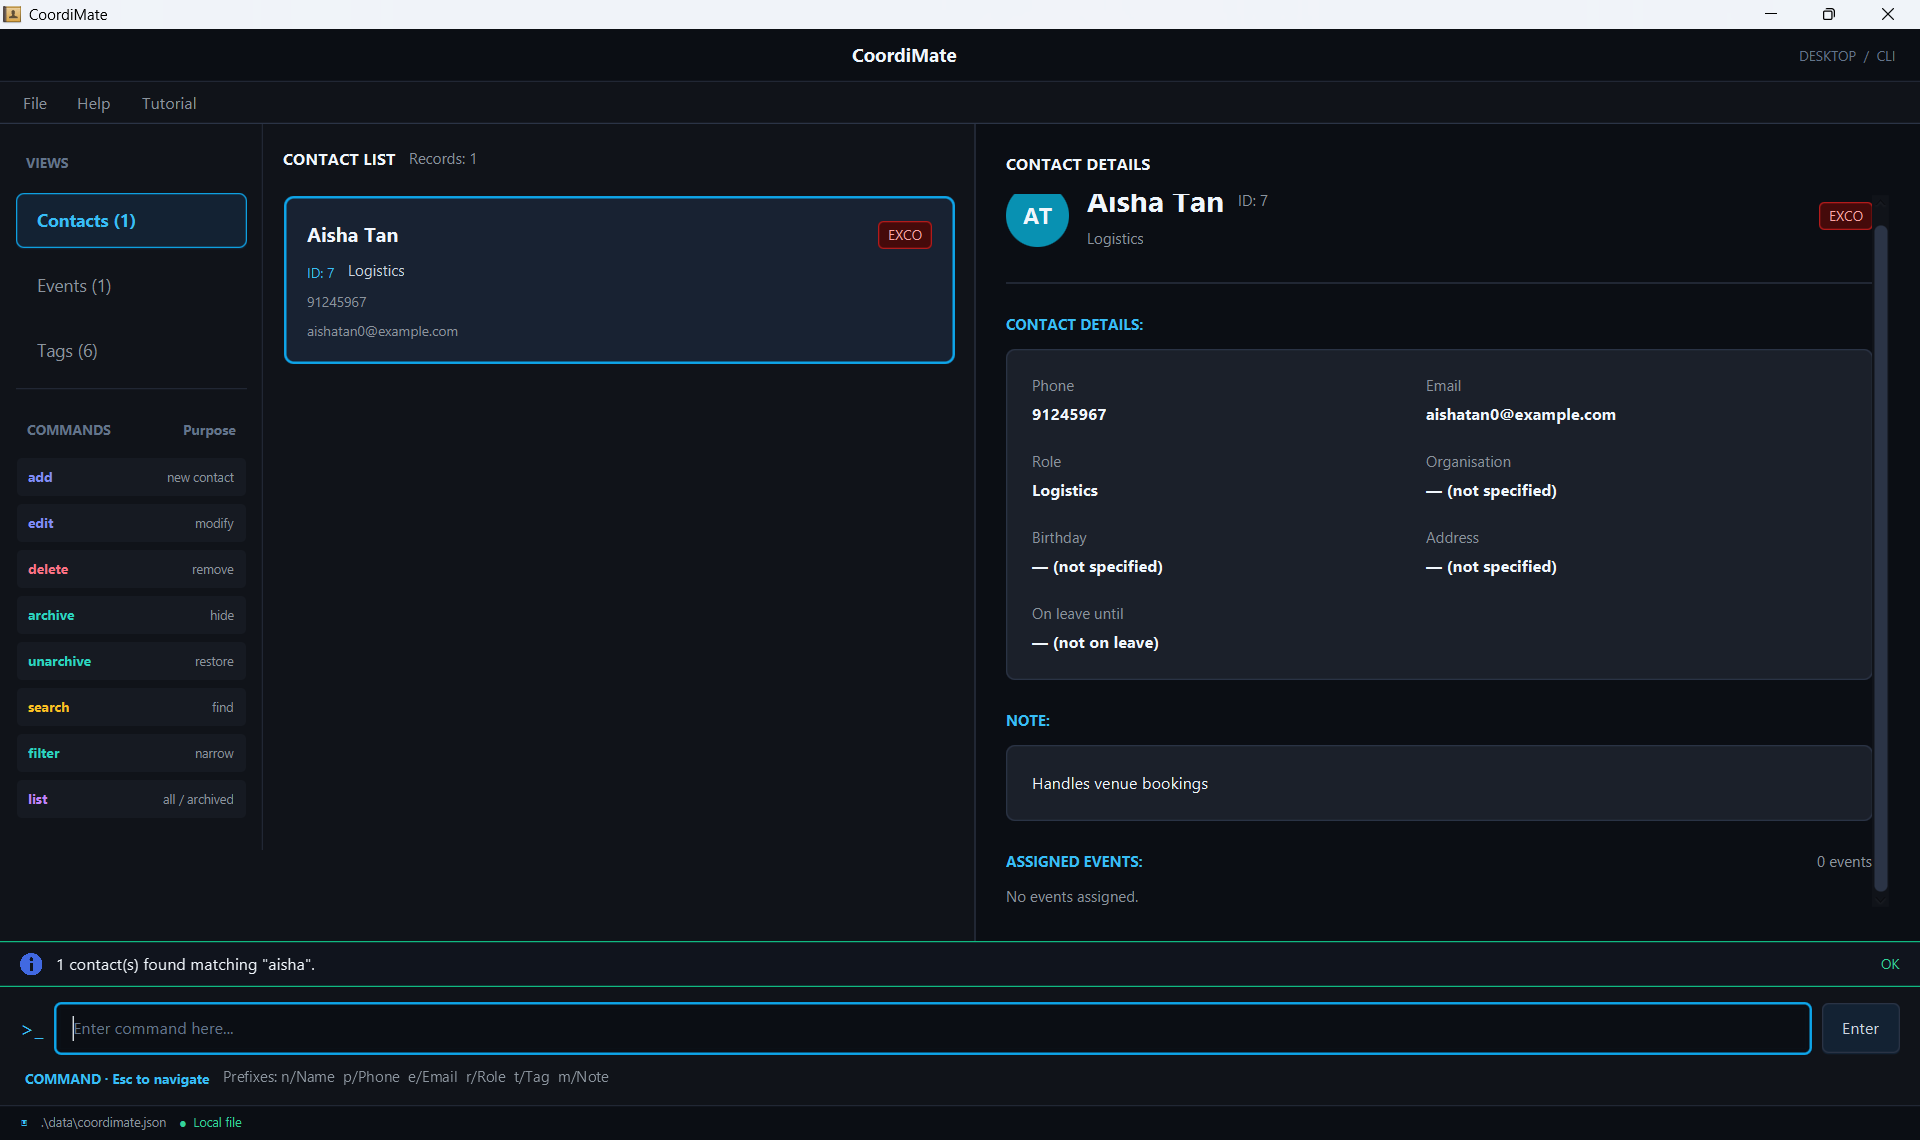
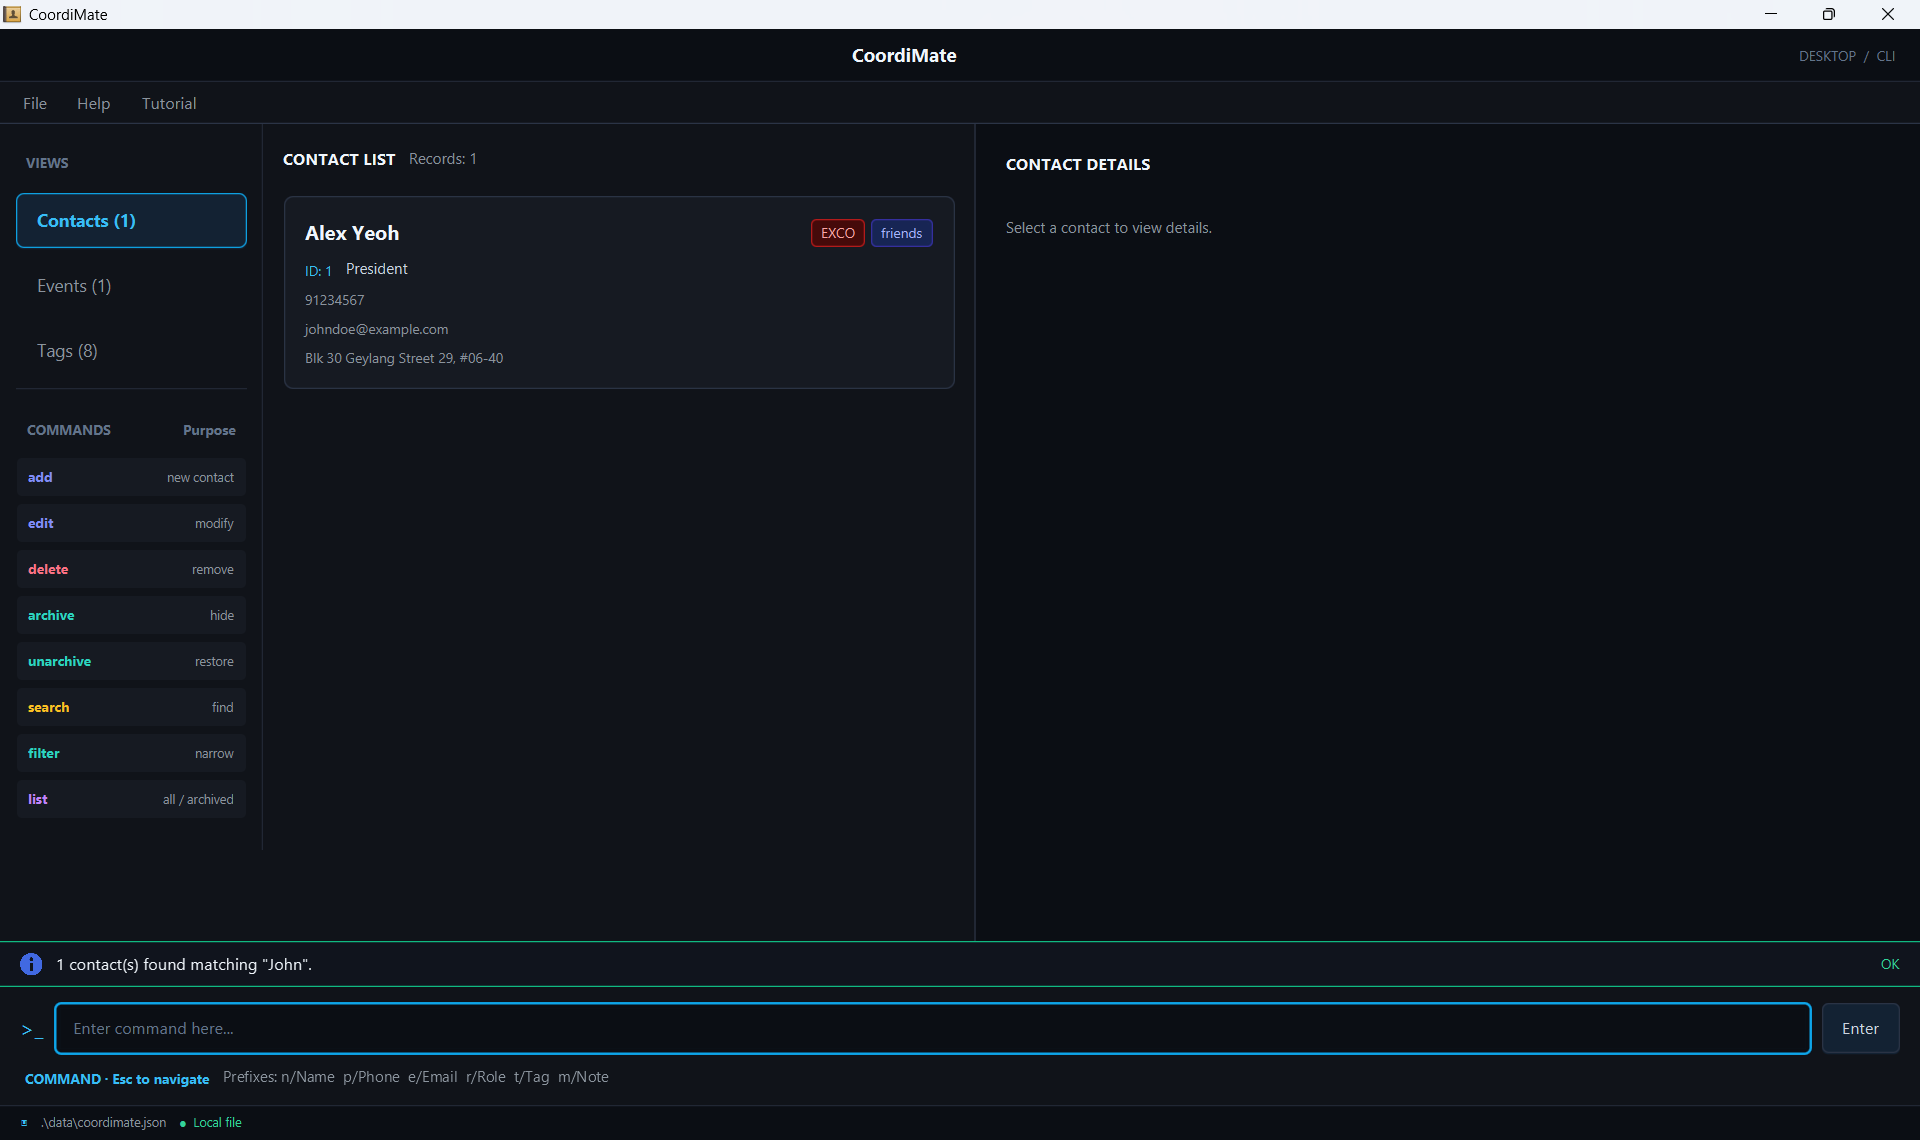
Merge tag commands, fix email limit gap

diff --git a/docs/UserGuide.md b/docs/UserGuide.md
@@ -143,7 +143,7 @@ A command that breaks a constraint is rejected and makes no changes.
 |---|---|---|
 | `NAME`, `MEMBER_NAME` | `n/`, `mem/` | 1 to 80 characters. Letters, spaces, hyphens (`-`), apostrophes (`'`), and periods (`.`) only, with at least one letter. The words `s/o` and `d/o` (any capitalization) are also allowed, e.g. `Rajesh s/o Kumar`. Digits are not allowed. Several spaces in a row count as one. Contact names are unique, ignoring case and extra spaces. |
 | `PHONE` | `p/` | 7 to 15 digits. May start with `+` or a bracketed country code such as `(+65)`, and may contain spaces, hyphens, and brackets. Brackets must come in pairs that each enclose at least one digit, and cannot be nested. Unique among contacts once spaces, hyphens, and brackets are removed. |
-| `EMAIL` | `e/` | `local-part@domain`. The local part uses letters, digits, and `_`, `%`, `+`, `-`, `.`; it cannot start or end with a period or contain two periods in a row. The domain is made of labels separated by periods; each label uses letters, digits, and hyphens and cannot start or end with a hyphen. The last label has at least 2 letters. Unique among contacts, ignoring case. |
+| `EMAIL` | `e/` | `local-part@domain`, at most 254 characters, with a local part of at most 64 characters. The local part uses letters, digits, and `_`, `%`, `+`, `-`, `.`; it cannot start or end with a period or contain two periods in a row. The domain is made of labels separated by periods; each label uses letters, digits, and hyphens and cannot start or end with a hyphen. The last label has at least 2 letters. Unique among contacts, ignoring case. |
 | `ROLE` | `r/` | 1 to 50 characters. Letters, digits, spaces, hyphens, and `/` only, with at least one letter or digit. |
 | `BIRTHDAY` | `b/` | A real date in `dd-MM-yyyy` format that is not in the future, e.g. `18-06-2004`. |
 | `LEAVE_END_DATE` | `lv/` | A real date in `dd-MM-yyyy` format that is not in the past, e.g. `30-11-2026`. Today's date is allowed. |
@@ -468,10 +468,7 @@ Examples:
 * `edit target/aisha@example.com lv/15-12-2026` changes Aisha's leave to end on 15 December 2026.
 * `edit 2 lv/` ends the leave of the contact with member ID `2`.
 
-| Condition | Error message |
-|---|---|
-| The date is invalid, incorrectly formatted, or in the past. | `Invalid leave end date. Use a real date in dd-MM-yyyy format that is not in the past. Example: lv/30-11-2026` |
-| `lv/` is repeated. | `Parameter lv/ may only be specified once.` |
+An invalid or repeated `lv/` is rejected with the same error messages as [`edit`](#editing-a-contact-edit).
 
 ### Deleting a contact: `delete`
 
@@ -1137,13 +1134,22 @@ restarting. This is the same behavior as the **Dismiss** button.
 
 ## Managing tags
 
-### Adding a tag: `addtag`
+### Managing tags: `addtag`, `edittag`, `deletetag`
 
-Creates a custom tag and opens the Tags view. Tag names must contain 1 to 30 alphanumeric characters without spaces.
-Leading and trailing whitespace is trimmed. Tag names preserve their capitalization, but are unique regardless of
-capitalization.
+`addtag` creates a custom tag. `edittag` renames an existing tag, including a default tag, and updates it wherever
+it is applied across contacts. `deletetag` deletes an existing tag, including a default tag, and removes it from
+every contact to which it is assigned. All three open the Tags view.
 
-Format: `addtag t/TAG`
+Formats:
+
+* `addtag t/TAG` creates `TAG`.
+* `edittag OLD_TAG t/NEW_TAG` renames `OLD_TAG` to `NEW_TAG`.
+* `deletetag t/TAG` deletes `TAG`.
+
+* `TAG` and `NEW_TAG` must contain 1 to 30 alphanumeric characters without spaces. Leading and trailing whitespace
+  is trimmed. Tag names preserve their capitalization, but are unique regardless of capitalization, so `addtag
+  t/publicity` is rejected as a duplicate if `Publicity` already exists.
+* `OLD_TAG`, and the `TAG` given to `deletetag`, must match an existing tag, ignoring capitalization.
 
 ![Add tag](images/addTag.png)
 *The Tags tab showing the new `ProductionCrew` tag after `addtag`.*
@@ -1152,78 +1158,26 @@ Examples:
 
 * `addtag t/ProductionCrew`
 * `addtag t/Publicity`
-
-If a tag named `Publicity` already exists, commands such as `addtag t/publicity` are rejected as duplicates.
-
-Success: `Created tag: Publicity.`
-
-| Condition | Error message |
-|---|---|
-| No parameters are supplied. | `Invalid command format.` |
-| The `t/` prefix is missing. | `Invalid command format.` |
-| More than one `t/` prefix is supplied. | `Parameter t/ may only be specified once.` |
-| Text appears before `t/`. | `Invalid command format.` |
-| An unknown parameter is used. | `Unknown parameter: {PREFIX}.` |
-| The tag name is empty. | `Tag name must not be empty. Example: t/Publicity` |
-| The tag name contains spaces, symbols, or punctuation. | `Invalid tag name. Use letters and numbers without spaces. Example: t/Publicity` |
-| The tag name exceeds 30 characters. | `Tag name must not exceed 30 characters. Example: t/Publicity` |
-| The tag name already exists, ignoring capitalization. | `A tag with this name already exists. No changes were made.` |
-
-If saving fails, the command reports `Tag could not be saved. No changes were made.`
-
-### Editing a tag: `edittag`
-
-Renames an existing tag, including a default tag, and updates it wherever it is applied across contacts.
-
-Format: `edittag OLD_TAG t/NEW_TAG`
-
-Examples:
-
 * `edittag Production t/ProductionCrew`
 * `edittag Media t/Publicity`
-
-`OLD_TAG` must match an existing tag, ignoring capitalization. `NEW_TAG` must contain 1 to 30
-alphanumeric characters without spaces. Leading and trailing whitespace is trimmed before validation.
-
-Success for `edittag Media t/Publicity`: `Media successfully renamed to Publicity.`
-
-| Condition | Error message |
-|---|---|
-| The current tag does not exist. | `Tag {OLD_TAG} does not exist. Use a saved tag name.` |
-| The `t/` prefix is missing. | `Invalid command format.` |
-| The current tag name is missing. | `Invalid command format.` |
-| The new tag name is blank. | `Tag name must not be empty. Example: t/Publicity` |
-| More than one `t/` prefix is supplied. | `Parameter t/ may only be specified once.` |
-| An unknown parameter is used. | `Unknown parameter: {PREFIX}.` |
-| The new tag contains spaces, symbols, or punctuation. | `Invalid tag name. Use letters and numbers without spaces. Example: t/Publicity` |
-| The new tag exceeds 30 characters. | `Tag name must not exceed 30 characters. Example: t/Publicity` |
-| The new tag matches the current tag, ignoring capitalization. | `Tag {OLD_TAG} already has that name. No changes were made.` |
-| The new tag already exists. | `A tag with this name already exists. No changes were made.` |
-
-If saving fails, the command reports `Tag could not be saved. No changes were made.`
-
-### Deleting a tag: `deletetag`
-
-Deletes an existing tag, including a default tag, and removes it from every contact to which it is assigned.
-
-Format: `deletetag t/TAG`
-
-Examples:
-
 * `deletetag t/ProductionCrew`
 * `deletetag t/Publicity`
 
-The tag name is matched case-insensitively.
-
-Success: `{TAG_NAME} successfully deleted.`
+Success: `Created tag: Publicity.` (`addtag`) · `Media successfully renamed to Publicity.` (`edittag`) ·
+`Publicity successfully deleted.` (`deletetag`)
 
 | Condition | Error message |
 |---|---|
-| The `t/` prefix is missing, or there is text before it. | `Invalid command format.` |
-| The tag name is empty. | `Tag name must not be empty. Example: t/Publicity` |
+| No parameters are supplied (`addtag`), the `t/` prefix is missing, `edittag`'s current tag name is missing, or text appears before the first parameter. | `Invalid command format.` |
 | More than one `t/` prefix is supplied. | `Parameter t/ may only be specified once.` |
 | An unknown parameter is used. | `Unknown parameter: {PREFIX}.` |
-| The specified tag does not exist. | `Tag {TAG_NAME} does not exist. Use a saved tag name.` |
+| The tag name (`addtag`), new tag name (`edittag`), or tag name (`deletetag`) is empty. | `Tag name must not be empty. Example: t/Publicity` |
+| `addtag`'s tag name, or `edittag`'s new tag name, contains spaces, symbols, or punctuation. | `Invalid tag name. Use letters and numbers without spaces. Example: t/Publicity` |
+| `addtag`'s tag name, or `edittag`'s new tag name, exceeds 30 characters. | `Tag name must not exceed 30 characters. Example: t/Publicity` |
+| `addtag`'s tag, or `edittag`'s new tag, already exists, ignoring capitalization. | `A tag with this name already exists. No changes were made.` |
+| `edittag`'s current tag does not exist. | `Tag {OLD_TAG} does not exist. Use a saved tag name.` |
+| `edittag`'s new tag matches the current tag, ignoring capitalization. | `Tag {OLD_TAG} already has that name. No changes were made.` |
+| `deletetag`'s tag does not exist. | `Tag {TAG_NAME} does not exist. Use a saved tag name.` |
 
 If saving fails, the command reports `Tag could not be saved. No changes were made.`
 
